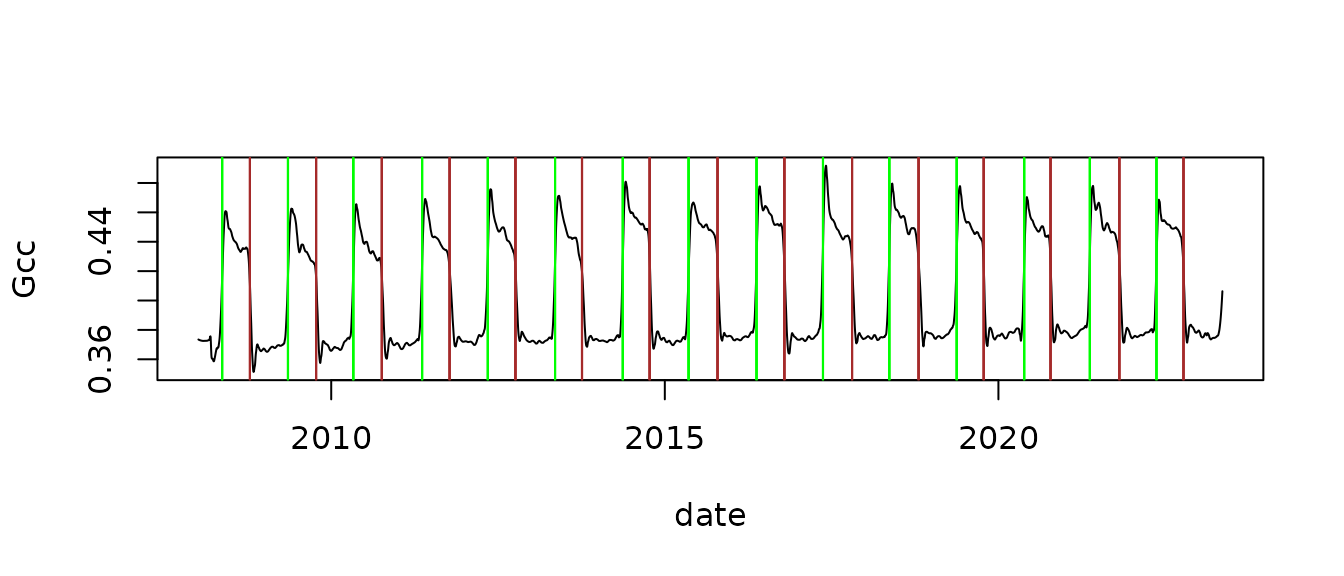
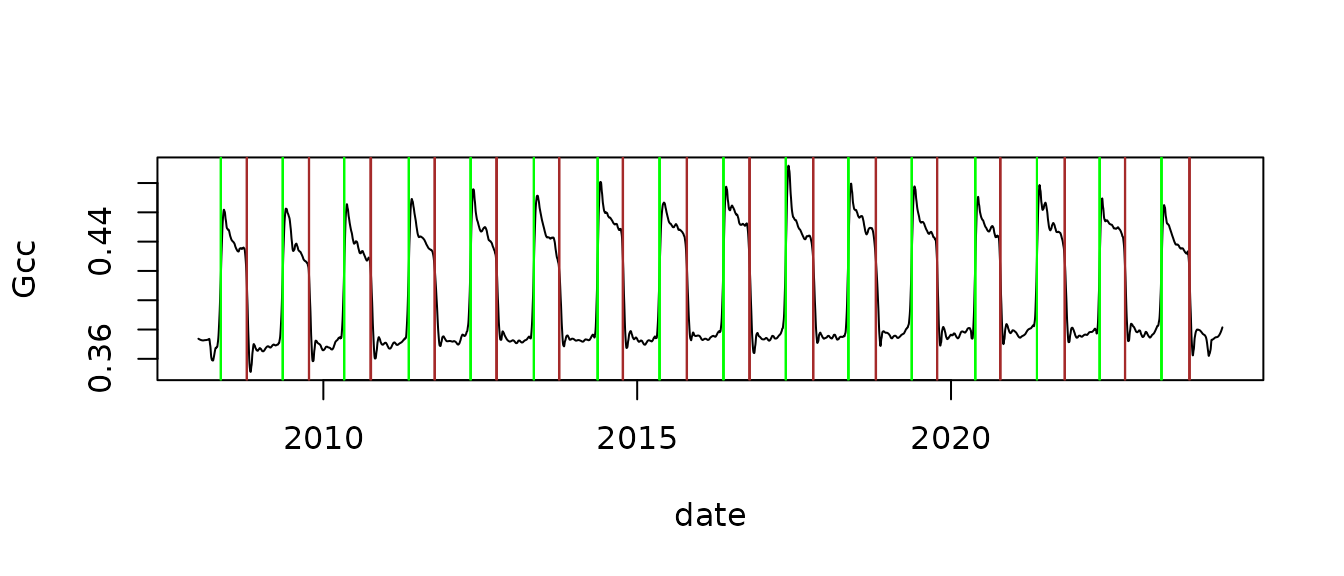
Deploying to gh-pages from @ bluegreen-labs/phenocamr@f118645abc5719d91bd12f0be00f44a1612bcc2b 🚀

diff --git a/articles/phenocamr-vignette.html b/articles/phenocamr-vignette.html
@@ -93,7 +93,7 @@
                         <h4 data-toc-skip class="author">Koen
 Hufkens</h4>
             
-            <h4 data-toc-skip class="date">2023-02-12</h4>
+            <h4 data-toc-skip class="date">2024-01-31</h4>
       
       <small class="dont-index">Source: <a href="https://github.com/bluegreen-labs/phenocamr/blob/HEAD/vignettes/phenocamr-vignette.Rmd" class="external-link"><code>vignettes/phenocamr-vignette.Rmd</code></a></small>
       <div class="hidden name"><code>phenocamr-vignette.Rmd</code></div>
@@ -163,9 +163,9 @@ list_sites() function.</p>
 <span><span class="co">#&gt; 5 Scott Graham &lt;grahams AT landcareresearch DOT co DOT nz&gt; 2021-03-04</span></span>
 <span><span class="co">#&gt; 6 Scott Graham &lt;grahams AT landcareresearch DOT co DOT nz&gt; 2021-03-02</span></span>
 <span><span class="co">#&gt;     date_end nimage tzoffset active infrared   method</span></span>
-<span><span class="co">#&gt; 1 2023-02-07  37265       -5   TRUE        N  ftppush</span></span>
-<span><span class="co">#&gt; 2 2023-02-07  16743       -5   TRUE        Y  ftppush</span></span>
-<span><span class="co">#&gt; 3 2023-02-07  31177       -5   TRUE        N  ftppush</span></span>
+<span><span class="co">#&gt; 1 2024-01-12  49479       -5   TRUE        N  ftppush</span></span>
+<span><span class="co">#&gt; 2 2024-01-22  29381       -5   TRUE        Y  ftppush</span></span>
+<span><span class="co">#&gt; 3 2024-01-12  38524       -5   TRUE        N  ftppush</span></span>
 <span><span class="co">#&gt; 4 2022-01-07  55421       -5  FALSE        N httppull</span></span>
 <span><span class="co">#&gt; 5 2022-09-08  12279       12  FALSE        Y  ftppush</span></span>
 <span><span class="co">#&gt; 6 2022-09-08  14070       12  FALSE        Y  ftppush</span></span>
@@ -246,9 +246,9 @@ limited set of meta-data parameters.</p>
 <span><span class="co">#&gt; 5 Mixed forest in foreground.  Start new timeseries due to camera/FOV change.</span></span>
 <span><span class="co">#&gt; 6                                                         grass in foreground</span></span>
 <span><span class="co">#&gt;   first_date  last_date site_years missing_data_pct</span></span>
-<span><span class="co">#&gt; 1 2020-04-28 2023-02-07        2.7                2</span></span>
-<span><span class="co">#&gt; 2 2021-09-02 2023-02-07        1.4                4</span></span>
-<span><span class="co">#&gt; 3 2020-05-01 2022-05-17        2.0                2</span></span>
+<span><span class="co">#&gt; 1 2020-04-28 2024-01-29        3.7                2</span></span>
+<span><span class="co">#&gt; 2 2021-09-02 2024-01-29        2.3                3</span></span>
+<span><span class="co">#&gt; 3 2020-05-01 2024-01-29        2.6               32</span></span>
 <span><span class="co">#&gt; 4 2007-03-15 2017-09-20        9.8                7</span></span>
 <span><span class="co">#&gt; 5 2017-10-11 2021-09-23        3.7                6</span></span>
 <span><span class="co">#&gt; 6 2021-03-03 2022-09-08        1.5                2</span></span></code></pre></div>
@@ -292,39 +292,39 @@ header and is comma separated.</p>
 <span><span class="co">#&gt;  $ solar_elev_min: num 10</span></span>
 <span><span class="co">#&gt;  $ header        : Named chr [1:24] NA NA NA "harvard" ...</span></span>
 <span><span class="co">#&gt;   ..- attr(*, "names")= chr [1:24] "#" "# 3-day summary product timeseries for harvard" "#" "# Site" ...</span></span>
-<span><span class="co">#&gt;  $ data          :'data.frame':  5606 obs. of  32 variables:</span></span>
-<span><span class="co">#&gt;   ..$ date                : chr [1:5606] "2008-01-05" "2008-01-06" "2008-01-07" "2008-01-08" ...</span></span>
-<span><span class="co">#&gt;   ..$ year                : int [1:5606] 2008 2008 2008 2008 2008 2008 2008 2008 2008 2008 ...</span></span>
-<span><span class="co">#&gt;   ..$ doy                 : int [1:5606] 5 6 7 8 9 10 11 12 13 14 ...</span></span>
-<span><span class="co">#&gt;   ..$ image_count         : int [1:5606] NA NA NA NA NA NA NA NA NA NA ...</span></span>
-<span><span class="co">#&gt;   ..$ midday_filename     : chr [1:5606] NA NA NA NA ...</span></span>
-<span><span class="co">#&gt;   ..$ midday_r            : num [1:5606] NA NA NA NA NA NA NA NA NA NA ...</span></span>
-<span><span class="co">#&gt;   ..$ midday_g            : num [1:5606] NA NA NA NA NA NA NA NA NA NA ...</span></span>
-<span><span class="co">#&gt;   ..$ midday_b            : num [1:5606] NA NA NA NA NA NA NA NA NA NA ...</span></span>
-<span><span class="co">#&gt;   ..$ midday_gcc          : num [1:5606] NA NA NA NA NA NA NA NA NA NA ...</span></span>
-<span><span class="co">#&gt;   ..$ midday_rcc          : num [1:5606] NA NA NA NA NA NA NA NA NA NA ...</span></span>
-<span><span class="co">#&gt;   ..$ r_mean              : num [1:5606] NA NA NA NA NA NA NA NA NA NA ...</span></span>
-<span><span class="co">#&gt;   ..$ r_std               : num [1:5606] NA NA NA NA NA NA NA NA NA NA ...</span></span>
-<span><span class="co">#&gt;   ..$ g_mean              : num [1:5606] NA NA NA NA NA NA NA NA NA NA ...</span></span>
-<span><span class="co">#&gt;   ..$ g_std               : num [1:5606] NA NA NA NA NA NA NA NA NA NA ...</span></span>
-<span><span class="co">#&gt;   ..$ b_mean              : num [1:5606] NA NA NA NA NA NA NA NA NA NA ...</span></span>
-<span><span class="co">#&gt;   ..$ b_std               : num [1:5606] NA NA NA NA NA NA NA NA NA NA ...</span></span>
-<span><span class="co">#&gt;   ..$ gcc_mean            : num [1:5606] NA NA NA NA NA NA NA NA NA NA ...</span></span>
-<span><span class="co">#&gt;   ..$ gcc_std             : num [1:5606] NA NA NA NA NA NA NA NA NA NA ...</span></span>
-<span><span class="co">#&gt;   ..$ gcc_50              : num [1:5606] NA NA NA NA NA NA NA NA NA NA ...</span></span>
-<span><span class="co">#&gt;   ..$ gcc_75              : num [1:5606] NA NA NA NA NA NA NA NA NA NA ...</span></span>
-<span><span class="co">#&gt;   ..$ gcc_90              : num [1:5606] NA NA NA NA NA NA NA NA NA NA ...</span></span>
-<span><span class="co">#&gt;   ..$ rcc_mean            : num [1:5606] NA NA NA NA NA NA NA NA NA NA ...</span></span>
-<span><span class="co">#&gt;   ..$ rcc_std             : num [1:5606] NA NA NA NA NA NA NA NA NA NA ...</span></span>
-<span><span class="co">#&gt;   ..$ rcc_50              : num [1:5606] NA NA NA NA NA NA NA NA NA NA ...</span></span>
-<span><span class="co">#&gt;   ..$ rcc_75              : num [1:5606] NA NA NA NA NA NA NA NA NA NA ...</span></span>
-<span><span class="co">#&gt;   ..$ rcc_90              : num [1:5606] NA NA NA NA NA NA NA NA NA NA ...</span></span>
-<span><span class="co">#&gt;   ..$ max_solar_elev      : num [1:5606] NA NA NA NA NA NA NA NA NA NA ...</span></span>
-<span><span class="co">#&gt;   ..$ snow_flag           : logi [1:5606] NA NA NA NA NA NA ...</span></span>
-<span><span class="co">#&gt;   ..$ outlierflag_gcc_mean: logi [1:5606] NA NA NA NA NA NA ...</span></span>
-<span><span class="co">#&gt;   ..$ outlierflag_gcc_50  : logi [1:5606] NA NA NA NA NA NA ...</span></span>
-<span><span class="co">#&gt;   ..$ outlierflag_gcc_75  : logi [1:5606] NA NA NA NA NA NA ...</span></span>
-<span><span class="co">#&gt;   ..$ outlierflag_gcc_90  : logi [1:5606] NA NA NA NA NA NA ...</span></span>
+<span><span class="co">#&gt;  $ data          :'data.frame':  5959 obs. of  32 variables:</span></span>
+<span><span class="co">#&gt;   ..$ date                : chr [1:5959] "2008-01-05" "2008-01-06" "2008-01-07" "2008-01-08" ...</span></span>
+<span><span class="co">#&gt;   ..$ year                : int [1:5959] 2008 2008 2008 2008 2008 2008 2008 2008 2008 2008 ...</span></span>
+<span><span class="co">#&gt;   ..$ doy                 : int [1:5959] 5 6 7 8 9 10 11 12 13 14 ...</span></span>
+<span><span class="co">#&gt;   ..$ image_count         : int [1:5959] NA NA NA NA NA NA NA NA NA NA ...</span></span>
+<span><span class="co">#&gt;   ..$ midday_filename     : chr [1:5959] NA NA NA NA ...</span></span>
+<span><span class="co">#&gt;   ..$ midday_r            : num [1:5959] NA NA NA NA NA NA NA NA NA NA ...</span></span>
+<span><span class="co">#&gt;   ..$ midday_g            : num [1:5959] NA NA NA NA NA NA NA NA NA NA ...</span></span>
+<span><span class="co">#&gt;   ..$ midday_b            : num [1:5959] NA NA NA NA NA NA NA NA NA NA ...</span></span>
+<span><span class="co">#&gt;   ..$ midday_gcc          : num [1:5959] NA NA NA NA NA NA NA NA NA NA ...</span></span>
+<span><span class="co">#&gt;   ..$ midday_rcc          : num [1:5959] NA NA NA NA NA NA NA NA NA NA ...</span></span>
+<span><span class="co">#&gt;   ..$ r_mean              : num [1:5959] NA NA NA NA NA NA NA NA NA NA ...</span></span>
+<span><span class="co">#&gt;   ..$ r_std               : num [1:5959] NA NA NA NA NA NA NA NA NA NA ...</span></span>
+<span><span class="co">#&gt;   ..$ g_mean              : num [1:5959] NA NA NA NA NA NA NA NA NA NA ...</span></span>
+<span><span class="co">#&gt;   ..$ g_std               : num [1:5959] NA NA NA NA NA NA NA NA NA NA ...</span></span>
+<span><span class="co">#&gt;   ..$ b_mean              : num [1:5959] NA NA NA NA NA NA NA NA NA NA ...</span></span>
+<span><span class="co">#&gt;   ..$ b_std               : num [1:5959] NA NA NA NA NA NA NA NA NA NA ...</span></span>
+<span><span class="co">#&gt;   ..$ gcc_mean            : num [1:5959] NA NA NA NA NA NA NA NA NA NA ...</span></span>
+<span><span class="co">#&gt;   ..$ gcc_std             : num [1:5959] NA NA NA NA NA NA NA NA NA NA ...</span></span>
+<span><span class="co">#&gt;   ..$ gcc_50              : num [1:5959] NA NA NA NA NA NA NA NA NA NA ...</span></span>
+<span><span class="co">#&gt;   ..$ gcc_75              : num [1:5959] NA NA NA NA NA NA NA NA NA NA ...</span></span>
+<span><span class="co">#&gt;   ..$ gcc_90              : num [1:5959] NA NA NA NA NA NA NA NA NA NA ...</span></span>
+<span><span class="co">#&gt;   ..$ rcc_mean            : num [1:5959] NA NA NA NA NA NA NA NA NA NA ...</span></span>
+<span><span class="co">#&gt;   ..$ rcc_std             : num [1:5959] NA NA NA NA NA NA NA NA NA NA ...</span></span>
+<span><span class="co">#&gt;   ..$ rcc_50              : num [1:5959] NA NA NA NA NA NA NA NA NA NA ...</span></span>
+<span><span class="co">#&gt;   ..$ rcc_75              : num [1:5959] NA NA NA NA NA NA NA NA NA NA ...</span></span>
+<span><span class="co">#&gt;   ..$ rcc_90              : num [1:5959] NA NA NA NA NA NA NA NA NA NA ...</span></span>
+<span><span class="co">#&gt;   ..$ max_solar_elev      : num [1:5959] NA NA NA NA NA NA NA NA NA NA ...</span></span>
+<span><span class="co">#&gt;   ..$ snow_flag           : logi [1:5959] NA NA NA NA NA NA ...</span></span>
+<span><span class="co">#&gt;   ..$ outlierflag_gcc_mean: logi [1:5959] NA NA NA NA NA NA ...</span></span>
+<span><span class="co">#&gt;   ..$ outlierflag_gcc_50  : logi [1:5959] NA NA NA NA NA NA ...</span></span>
+<span><span class="co">#&gt;   ..$ outlierflag_gcc_75  : logi [1:5959] NA NA NA NA NA NA ...</span></span>
+<span><span class="co">#&gt;   ..$ outlierflag_gcc_90  : logi [1:5959] NA NA NA NA NA NA ...</span></span>
 <span><span class="co">#&gt;  - attr(*, "class")= chr "phenocamr"</span></span>
 <span><span class="co">#&gt; NULL</span></span></code></pre></div>
 </div>
@@ -384,33 +384,33 @@ values (10 / 25 / 50%) of the Gcc amplitude.</p>
 <span><span class="co">#&gt; shorter object length</span></span>
 <span><span class="fu"><a href="https://rdrr.io/r/base/print.html" class="external-link">print</a></span><span class="op">(</span><span class="fu"><a href="https://rdrr.io/r/utils/head.html" class="external-link">head</a></span><span class="op">(</span><span class="va">start_of_season</span><span class="op">)</span><span class="op">)</span></span>
 <span><span class="co">#&gt;   transition_10 transition_25 transition_50 transition_10_lower_ci</span></span>
-<span><span class="co">#&gt; 1         14000         14006         14013                  13998</span></span>
-<span><span class="co">#&gt; 2         14360         14366         14373                  14356</span></span>
-<span><span class="co">#&gt; 3         14718         14723         14730                  14710</span></span>
+<span><span class="co">#&gt; 1         14000         14006         14014                  13998</span></span>
+<span><span class="co">#&gt; 2         14360         14366         14374                  14357</span></span>
+<span><span class="co">#&gt; 3         14717         14723         14731                  14714</span></span>
 <span><span class="co">#&gt; 4         15094         15100         15107                  15092</span></span>
-<span><span class="co">#&gt; 5         15452         15459         15466                  15445</span></span>
+<span><span class="co">#&gt; 5         15451         15459         15466                  15446</span></span>
 <span><span class="co">#&gt; 6         15823         15828         15835                  15821</span></span>
 <span><span class="co">#&gt;   transition_25_lower_ci transition_50_lower_ci transition_10_upper_ci</span></span>
-<span><span class="co">#&gt; 1                  14004                  14011                  14003</span></span>
-<span><span class="co">#&gt; 2                  14364                  14371                  14363</span></span>
-<span><span class="co">#&gt; 3                  14722                  14728                  14721</span></span>
+<span><span class="co">#&gt; 1                  14004                  14012                  14003</span></span>
+<span><span class="co">#&gt; 2                  14365                  14371                  14363</span></span>
+<span><span class="co">#&gt; 3                  14722                  14729                  14720</span></span>
 <span><span class="co">#&gt; 4                  15099                  15105                  15097</span></span>
-<span><span class="co">#&gt; 5                  15457                  15464                  15455</span></span>
+<span><span class="co">#&gt; 5                  15458                  15464                  15455</span></span>
 <span><span class="co">#&gt; 6                  15827                  15833                  15825</span></span>
 <span><span class="co">#&gt;   transition_25_upper_ci transition_50_upper_ci threshold_10 threshold_25</span></span>
-<span><span class="co">#&gt; 1                  14008                  14014      0.37585      0.39017</span></span>
-<span><span class="co">#&gt; 2                  14368                  14374      0.37680      0.39103</span></span>
-<span><span class="co">#&gt; 3                  14725                  14731      0.37806      0.39059</span></span>
-<span><span class="co">#&gt; 4                  15102                  15108      0.37885      0.39400</span></span>
-<span><span class="co">#&gt; 5                  15461                  15467      0.38243      0.39707</span></span>
+<span><span class="co">#&gt; 1                  14008                  14015      0.37585      0.39017</span></span>
+<span><span class="co">#&gt; 2                  14368                  14375      0.37680      0.38992</span></span>
+<span><span class="co">#&gt; 3                  14725                  14732      0.37725      0.38977</span></span>
+<span><span class="co">#&gt; 4                  15102                  15108      0.37879      0.39329</span></span>
+<span><span class="co">#&gt; 5                  15461                  15467      0.38191      0.39679</span></span>
 <span><span class="co">#&gt; 6                  15830                  15836      0.38168      0.39589</span></span>
 <span><span class="co">#&gt;   threshold_50 min_gcc max_gcc</span></span>
-<span><span class="co">#&gt; 1      0.41523 0.36772 0.46047</span></span>
-<span><span class="co">#&gt; 2      0.41547 0.36795 0.46123</span></span>
-<span><span class="co">#&gt; 3      0.41723 0.36880 0.46400</span></span>
-<span><span class="co">#&gt; 4      0.42264 0.37057 0.46822</span></span>
-<span><span class="co">#&gt; 5      0.42482 0.37224 0.47502</span></span>
-<span><span class="co">#&gt; 6      0.42472 0.37258 0.47112</span></span></code></pre></div>
+<span><span class="co">#&gt; 1      0.41797 0.36788 0.46093</span></span>
+<span><span class="co">#&gt; 2      0.41851 0.36802 0.46125</span></span>
+<span><span class="co">#&gt; 3      0.42119 0.36877 0.46400</span></span>
+<span><span class="co">#&gt; 4      0.42130 0.37057 0.46822</span></span>
+<span><span class="co">#&gt; 5      0.42482 0.37218 0.47502</span></span>
+<span><span class="co">#&gt; 6      0.42461 0.37247 0.47046</span></span></code></pre></div>
 <p>Alternatively you can use the phenophases() function which is a
 wrapper of the transition_dates() function. However, as it potentially
 writes data to disk it needs additional information such as the roi_id,

diff --git a/index.html b/index.html
@@ -97,7 +97,14 @@
 <div class="page-header"><h1 id="phenocamr-">phenocamr <img src="./logo.png" align="right" height="139"><a class="anchor" aria-label="anchor" href="#phenocamr-"></a>
 </h1></div>
 <p><a href="https://github.com/bluegreen-labs/phenocamr/actions/workflows/R-CMD-check.yaml" class="external-link"><img src="https://github.com/bluegreen-labs/phenocamr/actions/workflows/R-CMD-check.yaml/badge.svg" alt="R-CMD-check"></a> <a href="https://codecov.io/gh/bluegreen-labs/phenocamr" class="external-link"><img src="https://codecov.io/gh/bluegreen-labs/phenocamr/branch/master/graph/badge.svg" alt="codecov"></a> <a href="https://cran.r-project.org/package=phenocamr" class="external-link"><img src="https://www.r-pkg.org/badges/version/phenocamr" alt="CRAN_Status_Badge"></a> <img src="https://cranlogs.r-pkg.org/badges/grand-total/phenocamr" alt="CRAN_Downloads"></p>
-<p>Facilitates the retrieval and post-processing of PhenoCam time series. The post-processing of PhenoCam data includes outlier removal and the generation of data products such as phenological transition dates. If requested complementary <a href="https://daymet.ornl.gov/" class="external-link">Daymet climate data</a> will be downloaded and merged with the PhenoCam data for modelling purposes. For a detailed overview of the assumptions made during post-processing I refer publications by Hufkens et al. (2018) and Richardson et al. (2018). Please cite the Hufkens et al. (2018) paper when using the package. A worked example is included below and in the package vignette.</p>
+<p>Facilitates the retrieval and post-processing of PhenoCam time series. The post-processing of PhenoCam data includes outlier removal and the generation of data products such as phenological transition dates. If requested complementary <a href="https://daymet.ornl.gov/" class="external-link">Daymet climate data</a> will be downloaded and merged with the PhenoCam data for modelling purposes. For a detailed overview of the assumptions made during post-processing I refer publications by Hufkens et al. (2018) and Richardson et al. (2018).</p>
+<div class="section level2">
+<h2 id="how-to-cite-this-package">How to cite this package<a class="anchor" aria-label="anchor" href="#how-to-cite-this-package"></a>
+</h2>
+<blockquote>
+<p>[!important] Hufkens K., Basler J. D., Milliman T. Melaas E., Richardson A.D. 2018 An integrated phenology modelling framework in R: Phenology modelling with phenor. Methods in Ecology &amp; Evolution, 9: 1-10. <a href="https://doi.org/10.1111/2041-210X.12970" class="external-link uri">https://doi.org/10.1111/2041-210X.12970</a></p>
+</blockquote>
+</div>
 <div class="section level2">
 <h2 id="installation">Installation<a class="anchor" aria-label="anchor" href="#installation"></a>
 </h2>
